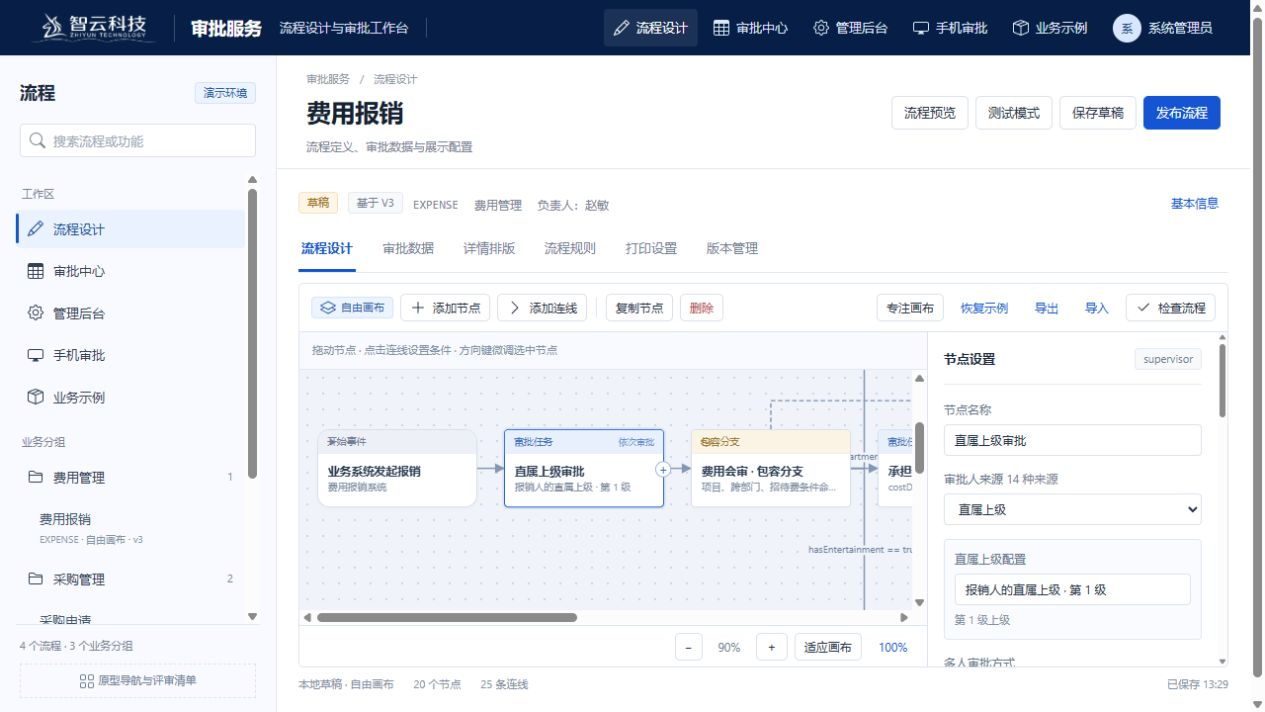
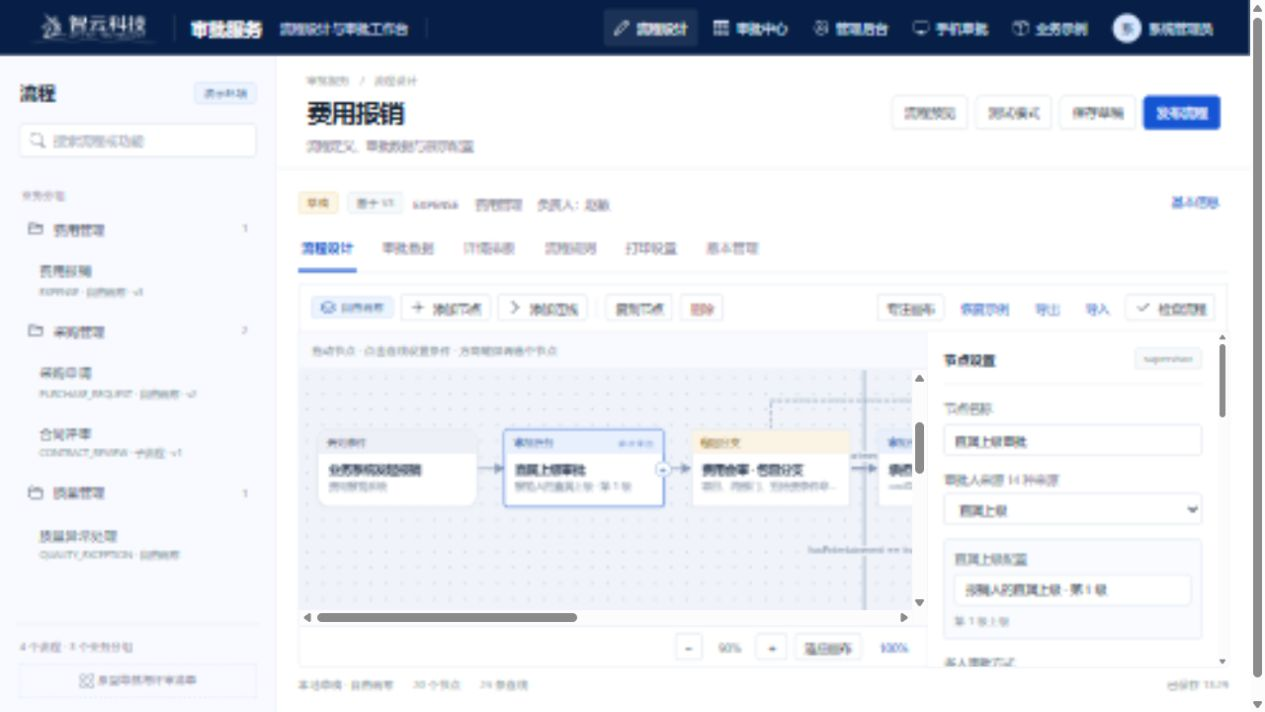
fix(prototypes): remove duplicate sidebar navigation (T-024)

diff --git a/docs/prototypes/shared.js b/docs/prototypes/shared.js
@@ -26,7 +26,7 @@ const UI = {
   shell(active, title, subtitle, bodyHtml, actionsHtml = '') {
     const pages = [['designer','edit','流程设计'],['center','table','审批中心'],['admin','gear','管理后台'],['mobile','preview','手机审批'],['demo','box','业务示例']];
     document.title = `${title} · 审批服务原型`;
-    document.querySelector('#app').innerHTML = `<header class="topbar"><button class="icon-btn mobile-menu" aria-label="打开导航">${UI.icon('menu')}</button><a class="brand-link" href="designer.html"><img class="company-logo" src="assets/company-logo.png" alt="智云科技"><strong>审批服务</strong></a><span class="brand-sub">流程设计与审批工作台</span><nav class="topnav" aria-label="主导航">${pages.map(([key,icon,label])=>`<a href="${key}.html" class="${key===active?'active':''}">${UI.icon(icon)}<span>${label}</span></a>`).join('')}<button class="account" id="profile-open"><span class="avatar">系</span><span>系统管理员</span></button></nav></header><aside class="sidebar" aria-label="工作区导航"><div class="side-head"><h2>${active==='designer'?'流程':'审批工作台'}</h2><span class="pill accent">演示环境</span></div><div class="side-search">${UI.icon('search')}<input class="inp" id="side-search" aria-label="搜索导航" placeholder="搜索流程或功能"></div><div class="side-body"><div class="side-label">工作区</div>${pages.map(([key,icon,label])=>`<a class="side-link ${key===active?'active':''}" href="${key}.html">${UI.icon(icon)}${label}</a>`).join('')}<div class="side-label">业务分组</div><a class="side-link" href="designer.html#expense">${UI.icon('folder')}费用管理<span class="count">1</span></a><a class="side-flow" href="designer.html#expense"><b>费用报销</b><small>EXPENSE · 自由画布 · v3</small></a><a class="side-link" href="designer.html#purchase">${UI.icon('folder')}采购管理<span class="count">2</span></a><a class="side-flow" href="designer.html#purchase"><b>采购申请</b><small>PURCHASE_REQUEST · 自由画布 · v2</small></a><a class="side-flow" href="designer.html#contract"><b>合同评审</b><small>CONTRACT_REVIEW · 子流程 · v1</small></a><a class="side-link" href="designer.html#quality">${UI.icon('folder')}质量管理<span class="count">1</span></a><a class="side-flow" href="designer.html#quality"><b>质量异常处理</b><small>QUALITY_EXCEPTION · 自由画布</small></a></div><div class="side-foot">4 个流程 · 3 个业务分组<a href="index.html">${UI.icon('cards')} 原型导航与评审清单</a></div></aside><main class="page-content" id="page-content"><div class="page-head"><div class="breadcrumb">审批服务 <span>/</span> ${pages.find(p=>p[0]===active)?.[2]||'原型导航'}</div><div class="title-row"><h1>${UI.escape(title)}</h1><div class="head-actions">${actionsHtml}</div></div><div class="page-subtitle">${subtitle}</div></div><div class="page-body">${bodyHtml}</div></main>`;
+    document.querySelector('#app').innerHTML = `<header class="topbar"><button class="icon-btn mobile-menu" aria-label="打开导航">${UI.icon('menu')}</button><a class="brand-link" href="designer.html"><img class="company-logo" src="assets/company-logo.png" alt="智云科技"><strong>审批服务</strong></a><span class="brand-sub">流程设计与审批工作台</span><nav class="topnav" aria-label="主导航">${pages.map(([key,icon,label])=>`<a href="${key}.html" aria-label="${label}" title="${label}" class="${key===active?'active':''}">${UI.icon(icon)}<span>${label}</span></a>`).join('')}<button class="account" id="profile-open"><span class="avatar">系</span><span>系统管理员</span></button></nav></header><aside class="sidebar" aria-label="工作区导航"><div class="side-head"><h2>${active==='designer'?'流程':'审批工作台'}</h2><span class="pill accent">演示环境</span></div><div class="side-search">${UI.icon('search')}<input class="inp" id="side-search" aria-label="搜索导航" placeholder="搜索流程或功能"></div><div class="side-body"><div class="side-label">业务分组</div><a class="side-link" href="designer.html#expense">${UI.icon('folder')}费用管理<span class="count">1</span></a><a class="side-flow" href="designer.html#expense"><b>费用报销</b><small>EXPENSE · 自由画布 · v3</small></a><a class="side-link" href="designer.html#purchase">${UI.icon('folder')}采购管理<span class="count">2</span></a><a class="side-flow" href="designer.html#purchase"><b>采购申请</b><small>PURCHASE_REQUEST · 自由画布 · v2</small></a><a class="side-flow" href="designer.html#contract"><b>合同评审</b><small>CONTRACT_REVIEW · 子流程 · v1</small></a><a class="side-link" href="designer.html#quality">${UI.icon('folder')}质量管理<span class="count">1</span></a><a class="side-flow" href="designer.html#quality"><b>质量异常处理</b><small>QUALITY_EXCEPTION · 自由画布</small></a></div><div class="side-foot">4 个流程 · 3 个业务分组<a href="index.html">${UI.icon('cards')} 原型导航与评审清单</a></div></aside><main class="page-content" id="page-content"><div class="page-head"><div class="breadcrumb">审批服务 <span>/</span> ${pages.find(p=>p[0]===active)?.[2]||'原型导航'}</div><div class="title-row"><h1>${UI.escape(title)}</h1><div class="head-actions">${actionsHtml}</div></div><div class="page-subtitle">${subtitle}</div></div><div class="page-body">${bodyHtml}</div></main>`;
     document.querySelector('.mobile-menu').onclick = () => document.querySelector('.sidebar').classList.toggle('open');
     document.querySelector('#side-search').oninput = e => document.querySelectorAll('.side-link,.side-flow').forEach(link=>link.hidden = !link.textContent.toLowerCase().includes(e.target.value.toLowerCase()));
     document.querySelector('#profile-open').onclick = () => UI.modal('个人账号', `<div class="notice">当前为本地交互演示，所有数据均为虚构样例。</div><div class="form-grid" style="margin-top:18px"><label class="field">显示身份<select class="sel" id="demo-role"><option>系统管理员</option><option>流程管理员</option><option>审批人 · 李娜</option><option>申请人 · 王强</option></select></label><div class="field">个人设置<a class="btn" href="center.html#settings">委托、签名与常用语</a></div></div>`, d=>{ document.querySelector('#profile-open span:last-child').textContent=d.querySelector('#demo-role').value;UI.toast('演示身份已切换'); }, '切换身份');

diff --git a/docs/tasks/T-024-high-fidelity-prototypes.md b/docs/tasks/T-024-high-fidelity-prototypes.md
@@ -1,6 +1,6 @@
 # T-024 全功能高保真交互原型
 
-状态：进行中
+状态：待验收
 负责人：Codex 2026-10-13
 里程碑：M1
 依赖：T-000
@@ -44,7 +44,7 @@
 
 ## 交接记录
 
-- 2026-10-13 · Codex · 按用户截图意见继续精简原型导航：移除与顶栏重复的侧栏工作区入口，保留业务分组和模块内容导航；仅修改原型共享壳及验收截图。
+- 2026-10-13 · Codex · 按用户截图意见继续精简原型导航：移除与顶栏重复的侧栏工作区入口，保留业务分组和模块内容导航；仅修改原型共享壳及验收截图。已完成：桌面左侧直接展示业务分组；顶栏保留所有模块入口，窄屏图标补充可访问名称和悬停提示。浏览器确认侧栏无重复入口，脚本语法与全量 verify.ps1 通过。
 
 - 2026-10-13 · Codex · 完成单一自由画布修订：四套模板共 26 个场景，覆盖条件、包容与并行汇合、会签 / 或签 / 票签、子流程、办理、抄送、自动任务及返工；六组规则配置可保存。补齐节点拖动、键盘微调、复制删除、连线编辑、检查与测试预览；修正未失焦输入保存、旧草稿迁移备份、恢复示例及连线穿过无关节点的问题。浏览器验证保存重载、节点增删拖动、并行预览、返工停止及发布校验，截图保存在 evidence。65 项原型检查与 19 个脚本语法检查通过；全量 verify.ps1 后端 55 / 调用端 26（含端到端）/ 前端 5 项通过。ADR 0007、设计书与后续任务已同步。仍为本地交互原型，辅助条件输入不会随金额自动重算，票签计票、生产引擎与真实出站调用由正式任务实现；未新增依赖、未写业务代码、未推送远程。T-025 框架工作树保持独立。
 
